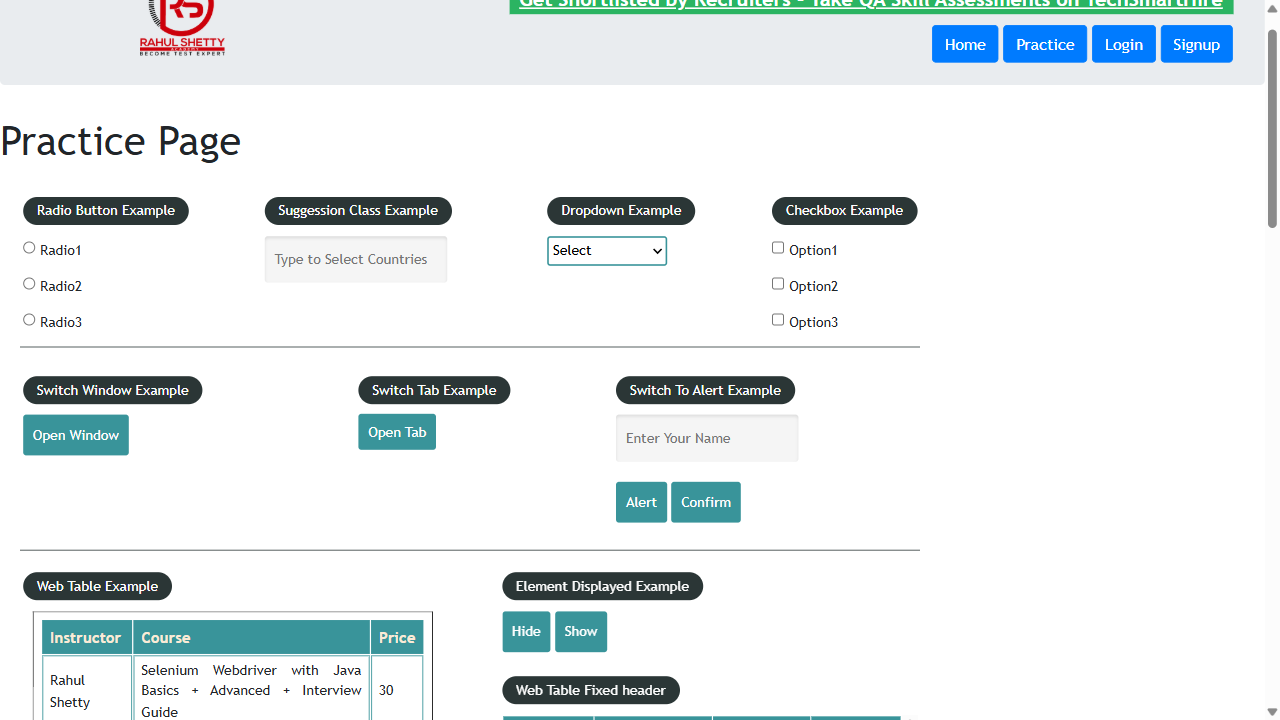
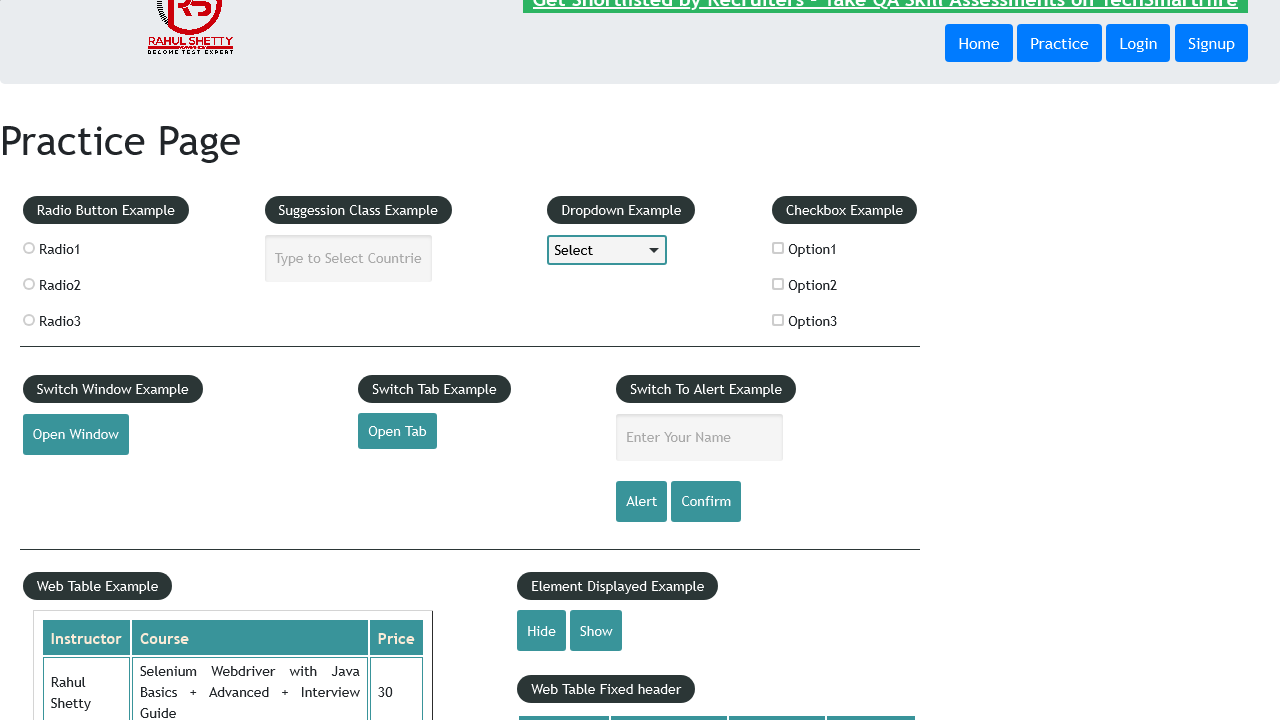
2-007Commit

diff --git a/tests/pract-01.spec.ts b/tests/pract-01.spec.ts
@@ -1,47 +1,44 @@
-import{test, expect, chromium} from '@playwright/test';
-test('TC-01', async()=>{
+import { test, expect, chromium } from '@playwright/test';
+test('TC-01', async () => {
 
-const browser = await chromium.launch({headless: false});
+    const browser = await chromium.launch({ headless: false });
 
-const contextA = await browser.newContext();
-const contextB = await browser.newContext();
-const contextC = await browser.newContext();
+    const contextA = await browser.newContext();
+    const contextB = await browser.newContext();
+    const contextC = await browser.newContext();
 
-const pageA1 = contextA.newPage();
-(await pageA1).goto('https://www.google.com/');
+    const pageA1 = await contextA.newPage();
+    await pageA1.goto('https://www.google.com/');
 
-const pageA2 = contextA.newPage();
-(await pageA2).goto('https://rahulshettyacademy.com/practice');
+    const pageA2 = await contextA.newPage();
+    await pageA2.goto('https://rahulshettyacademy.com/practice');
 
-const pageB = contextB.newPage();
-(await pageB).goto('https://playwright.dev/');
+    const pageB = await contextB.newPage();
+    await pageB.goto('https://playwright.dev/');
 
-const pageC1 = contextC.newPage();
-(await pageC1).goto('https://rahulshettyacademy.com/loginpagePractise/');
+    const pageC1 = await contextC.newPage();
+    await pageC1.goto('https://rahulshettyacademy.com/loginpagePractise/');
 
-const pageC2 = contextC.newPage();
-(await pageC2).goto('https://www.google.com/');
+    const pageC2 = await contextC.newPage();
+    await pageC2.goto('https://www.google.com/');
 
 });
 
 
-test('TC-02', async({page})=>{
+test('TC-02', async ({ page }) => {
 
     await page.goto('https://accounts.saucelabs.com/am/XUI/#login/');
 
-    await page.getByRole('textbox',{name: 'User Name'}).fill('Test@123');
-    await page.getByRole('textbox',{name: 'Password'}).fill('Test@123');
-    await page.getByRole('checkbox',{name: 'Remember username'});
-   await expect(page.getByText('Sign in',{exact: true})).toHaveText('Sign in');
-   const TV = await page.getByText('Sign in',{exact: true}).textContent();
-   console.log(TV === 'Sign in' ? 'Validation Passed:Sign' : `Validation Failed, got: ${TV}`);
+    await page.getByRole('textbox', { name: 'User Name' }).fill('Test@123');
+    await page.getByRole('textbox', { name: 'Password' }).fill('Test@123');
+    await page.getByRole('checkbox', { name: 'Remember username' });
+    await expect(page.getByText('Sign in', { exact: true })).toHaveText('Sign in');
+    const TV = await page.getByText('Sign in', { exact: true }).textContent();
+    console.log(TV === 'Sign in' ? 'Validation Passed:Sign' : `Validation Failed, got: ${TV}`);
 });
 
-test('TC-03', async({page})=>{
+test('TC-03', async ({ page }) => {
 
 
- await page.goto('https://www.google.com/');
-})
-
-
-
+    await page.goto('https://www.google.com/');
+});

diff --git a/playwright.config.js b/playwright.config.js
@@ -1,29 +1,51 @@
 // @ts-check
 import { defineConfig, devices } from '@playwright/test';
 
-
 /**
  * @see https://playwright.dev/docs/test-configuration
  */
 const config =({
   testDir: './tests',
-  //retries: 1,  //Retry Mechanisam 
-  //workers: 2, //Disable Parellel Mechanisam and set to 1 worker
+  retries: 1,  //Retry Mechanisam 
+  workers: 6, // Run tests in parallel across up to 3 workers
+  fullyParallel: true,
   timeout: 30 * 1000,
   expect: {
     timeout: 5000
   },
   reporter: 'html',
+  use: {
+    headless: true,
+    navigationTimeout: 10000,
+    actionTimeout: 15000,
+    screenshot: 'on',   // Off/On/only-on-failure
+    video: 'retain-on-failure',  // Off/On/Retain-on-failure
+    ignoreHTTPSErrors: true,  // Ignore SSL issues (Your connection is not private)
+    permissions: ['geolocation'],  // Allow location prompt
+    trace: 'on',  // Off/On/Retain-on-failure
+    // ...devices['Galaxy S24'],  // mobile responsive test
+    // viewport: { width: 720, height: 720 },  // responsive layout
+  },
+  projects: [
+    {
+      name: 'chromium',
       use: {
-        browserName: 'chromium', 
-        headless: false,   
-        screenshot: 'on',   // Off/On/only-on-failure
-        trace: 'on',  // Off/On/Retain-on-failure
-        
-
-    /* Collect trace when retrying the failed test. See https://playwright.dev/docs/trace-viewer */
-   
-},
+        browserName: 'chromium'
+      }
+    },
+    {
+      name: 'firefox',
+      use: {
+        browserName: 'firefox'
+      }
+    },
+    {
+      name: 'webkit',
+      use: {
+        browserName: 'webkit'
+      }
+    }
+  ],
 });
 module.exports = config
 

diff --git a/tests/demo1.ts b/tests/demo1.ts
@@ -29,9 +29,11 @@ console.log(user.location = "Hyderabad");
 class CartPage
 {
     page: Page;
-    cartProducts:Locator;
-    productsText:Locator;
-    cart:Locator;
+    cartProducts: Locator;
+    productsText: Locator;
+    cart: Locator;
+    orders: Locator;
+    checkout: Locator;
 
    
 constructor(page:any)
@@ -43,4 +45,5 @@ constructor(page:any)
     this.orders = page.locator("button[routerlink*='myorders']");
     this.checkout = page.locator("text=Checkout");
 
+}
 }

diff --git a/playwright.config1.js b/playwright.config1.js
@@ -4,7 +4,7 @@ import { workers } from 'node:cluster';
 
 
 /**
- * @see https://playwright.dev/docs/test-configuration
+ * @see https://chatgpt.com/share/6a521e2b-cab4-83ee-835b-e1619cd0d33e
  */
 const config = ({
   testDir: './tests',
